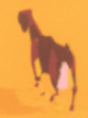
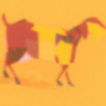
fixed sizing of some images

diff --git a/docs/goats.html b/docs/goats.html
@@ -90,6 +90,20 @@
                 call goats over, read letters)<br /> Merchant (can sell cheese or goats, buy hay or
                 goats, receive letters)<br /> Fence (can open and close)<br /> Shrine (can look
                 inside)<br /> Stick (can drag behind) </p>
+            <div class="rowbox">
+                <figure class="corpus">
+                    <img src="images/tikvah.png"/>
+                    <figcaption>Tikvah. Can be controlled through point-and-click</figcaption>
+                </figure>
+                <figure class="corpus">
+                    <img src="images/merchant.png"/>
+                    <figcaption>The merchant. Sells hay and goats for goat cheese</figcaption>
+                </figure>
+                <figure class="corpus">
+                    <img src="images/goat.png"/>
+                    <figcaption>A goat. Can be milked, pet, and called over. Dies if not fed</figcaption>
+                </figure>
+            </div>
             <h2>The letters</h2>
             <p>The letters are from usually different people and reference changes in the outside
                 world, mostly unknown to Tikvah and the player. The letters are an incredibly major
